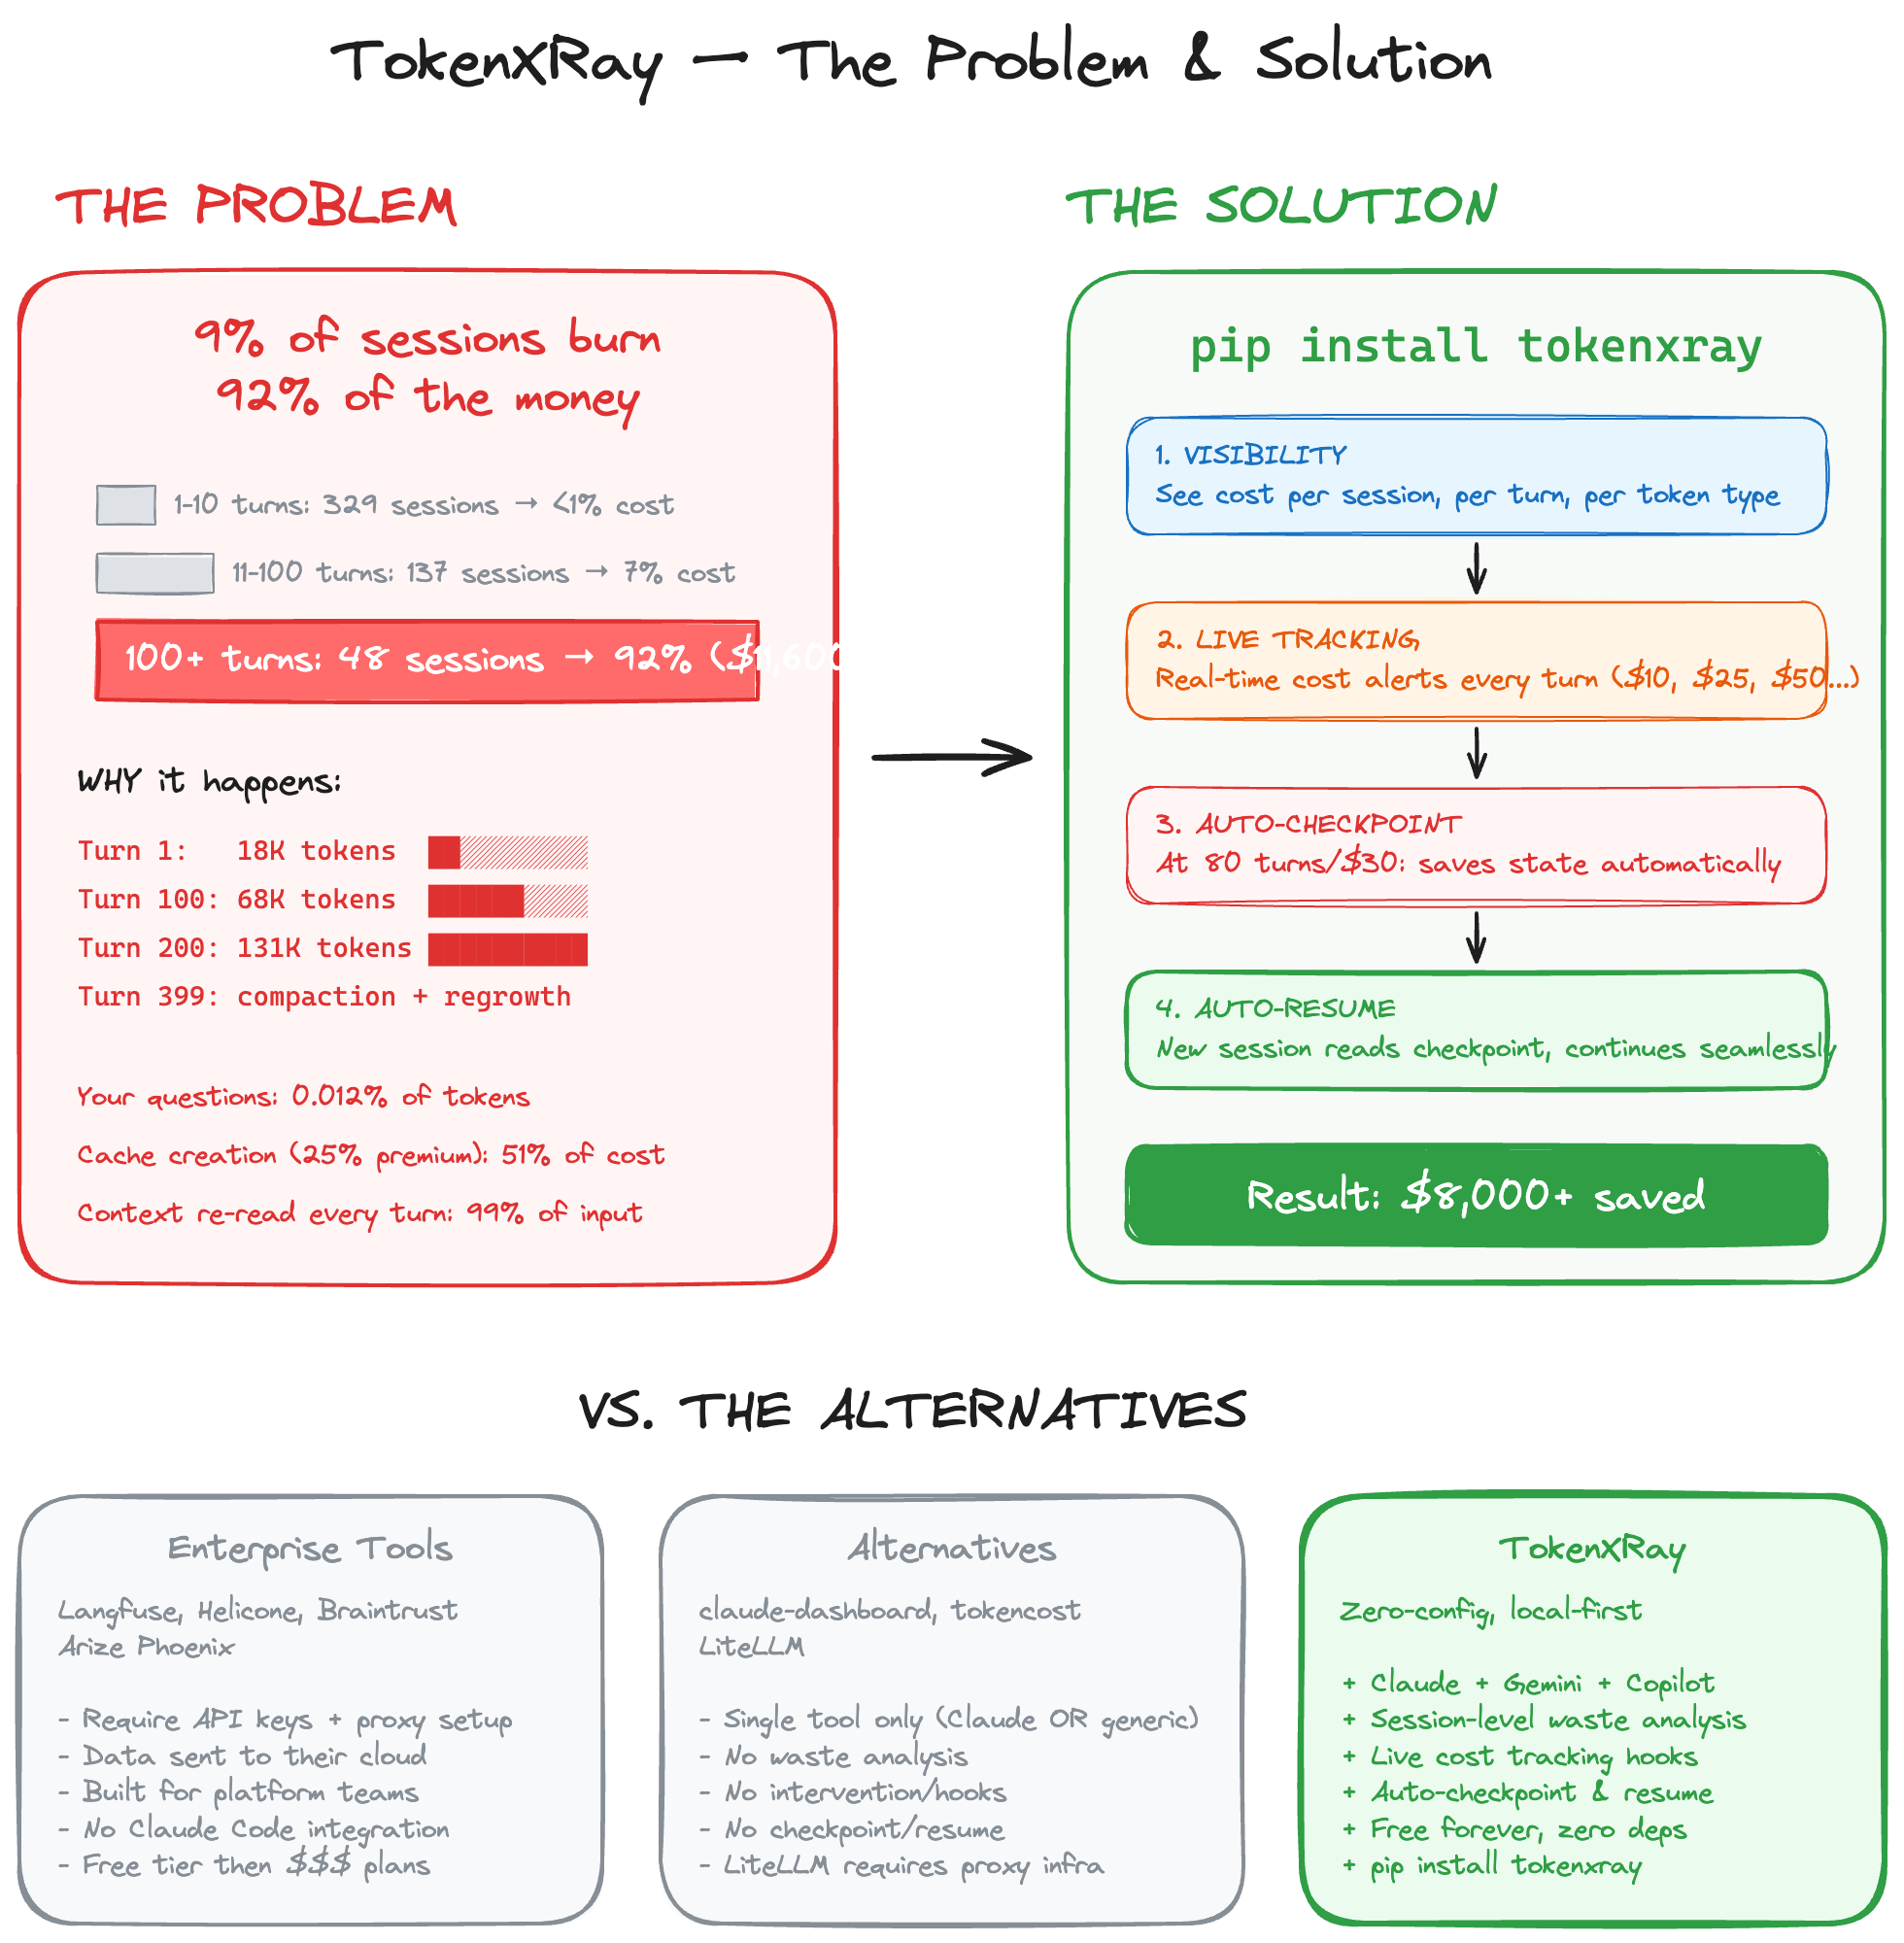
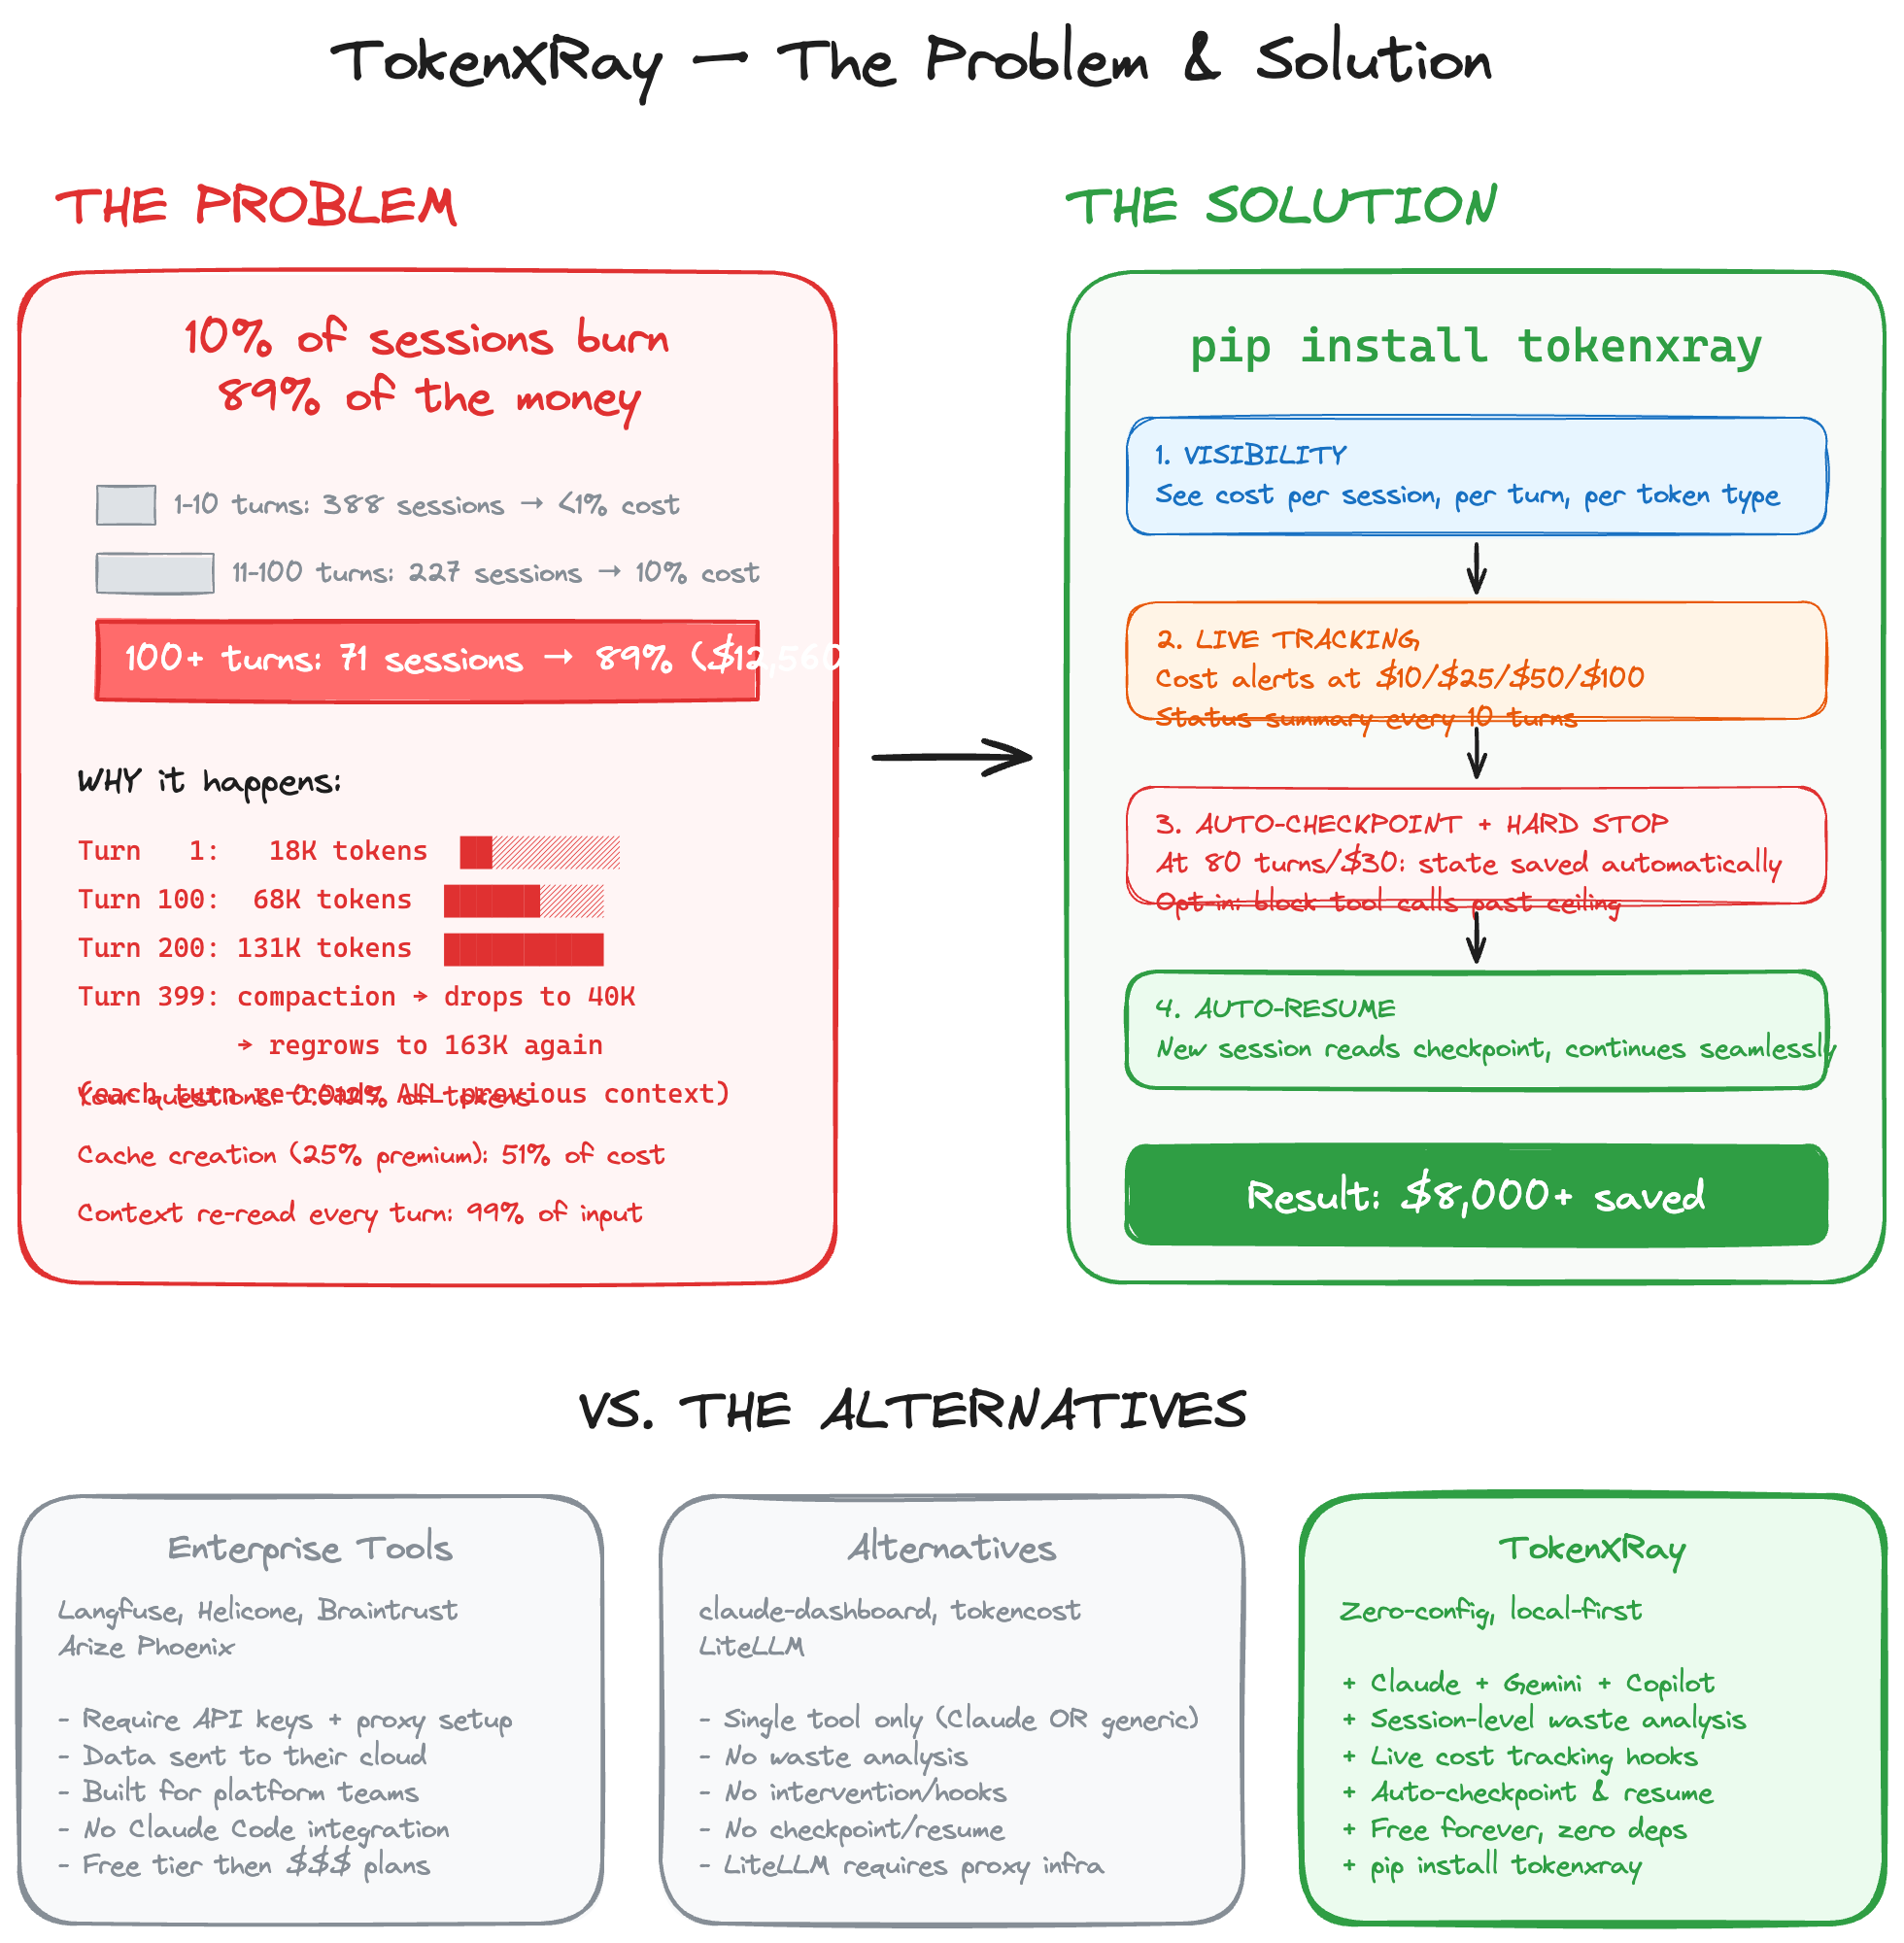
blog: refresh to 686 sessions, add hard-stop, fix GitHub URLs
- Blog post: update segment table (71/388/227 sessions, 10%/89%), add
  hard-stop to hooks section, replace vague 'noticeably' with math,
  update CLI example block, fix GitHub URL to Crack525/tokenxray
- Excalidraw: stat headline 10%/89%, corrected session counts, step 2
  alert text precise, step 3 shows hard-stop, context-growth sawtooth
- PNG: re-exported to match updated diagram
- pyproject.toml: fix niajulhasan -> Crack525 in all 3 URL fields
- dashboard.py: fix niajulhasan -> Crack525 in footer link

diff --git a/src/tokenxray/commands/dashboard.py b/src/tokenxray/commands/dashboard.py
@@ -496,7 +496,7 @@ def _render_html(data):
 
 <div class="footer">
   TokenXRay &mdash; See where your AI coding tokens actually go.
-  &bull; <a href="https://github.com/niajulhasan/tokenxray" style="color: var(--accent);">GitHub</a>
+  &bull; <a href="https://github.com/Crack525/tokenxray" style="color: var(--accent);">GitHub</a>
   &bull; pip install tokenxray
 </div>
 

diff --git a/blog/i-spent-104-dollars-in-one-ai-session.md b/blog/i-spent-104-dollars-in-one-ai-session.md
@@ -1,4 +1,4 @@
-# I Spent $104 in a Single AI Coding Session. Then I Audited All 514 of Mine.
+# I Spent $104 in a Single AI Coding Session. Then I Audited All 686 of Mine.
 
 *April 2026*
 
@@ -12,22 +12,22 @@ I wrote a script to analyze the damage. The pattern was worse than I expected.
 
 ## The Audit
 
-I analyzed **514 Claude Code sessions** — every session I'd run, totaling **$12,600+ in API costs**. I broke them down by length:
+I analyzed **686 Claude Code sessions** — every session I'd run, totaling **$14,000+ in API costs**. I broke them down by length:
 
 ```
 Session Segments:
-  1-10 turns:   329 sessions (64%)  →  avg $0.19   →  <1% of total spend
-  11-30 turns:   76 sessions (15%)  →  avg $4.01   →   2% of total spend
-  31-100 turns:  61 sessions (12%)  →  avg $11.05  →   5% of total spend
-  100+ turns:    48 sessions  (9%)  →  avg $241    →  92% of total spend
+  1-10 turns:   388 sessions (57%)  →  avg $0.19   →  <1% of total spend
+  11-30 turns:  110 sessions (16%)  →  avg $3.18   →   2% of total spend
+  31-100 turns: 117 sessions (17%)  →  avg $9.08   →   8% of total spend
+  100+ turns:    71 sessions (10%)  →  avg $177    →  89% of total spend
                                                        ^^^
 ```
 
 Read that last line again.
 
-**9% of my sessions burned 92% of my money.**
+**10% of my sessions burned 89% of my money.**
 
-The 48 marathon sessions — the ones where I was "in the zone," deep in a refactor or a tricky bug — those cost me $11,600. The other 466 sessions? $1,000 combined.
+The 71 marathon sessions — the ones where I was "in the zone," deep in a refactor or a tricky bug — those cost me $12,560. The other 615 sessions? $1,484 combined.
 
 ## What's Actually Eating Your Tokens
 
@@ -53,7 +53,7 @@ It costs **100x or more.**
 
 Context accumulates quadratically. Every new turn processes all previous context. Turn 1 reads 18K tokens. Turn 100 reads 68K. Turn 200 reads 131K. Turn 399 reads your entire conversation history — compressed, expanded, re-cached — every single time.
 
-My most expensive session: **399 turns, 2.4 hours, $104.** The context hit 131K tokens before auto-compaction kicked in.
+That session: **399 turns, 2.4 hours, $104.** The context hit 131K tokens before auto-compaction kicked in. (When I later audited all 686 sessions, I found three sessions over $1,000 — the worst was $1,477 across 4,389 turns. The pattern compounds the longer you let it run.)
 
 ## So I Built TokenXRay
 
@@ -70,13 +70,13 @@ pip install tokenxray
 ```
 TokenXRay - Session Overview
 ----------------------------------------------------------------------
-  514 sessions    43,000+ total turns    $12,600+ total cost
+  686 sessions    53,000+ total turns    $14,000+ total cost
 
   Segment Breakdown:
-    1-10 turns:  329 sessions  avg  $0.19   total    $62   ░░░░░░░░░░  0%
-         11-30:   76 sessions  avg  $4.01   total   $305   ░░░░░░░░░░  2%
-        31-100:   61 sessions  avg $11.05   total   $674   █░░░░░░░░░  5%
-          100+:   48 sessions  avg   $241   total $11,600  ████████░░ 92%
+    1-10 turns:  388 sessions  avg  $0.19   total    $72   ░░░░░░░░░░  1%
+         11-30:  110 sessions  avg  $3.18   total   $349   ░░░░░░░░░░  2%
+        31-100:  117 sessions  avg  $9.08   total  $1,063  █░░░░░░░░░  8%
+          100+:   71 sessions  avg   $177   total $12,560  █████████░ 89%
 ```
 
 Drill into any session and it breaks down the cost by cache read, cache create, and output — then shows the waste ratio (my $104 session: 2.9K tokens of actual questions, 24.4M tokens of re-sent context). It flags marathon sessions and high cache creation costs with specific actions.
@@ -85,7 +85,7 @@ Drill into any session and it breaks down the cost by cache read, cache create, 
 
 After a one-time `tokenxray --install-hook --confirm`, two Claude Code hooks run automatically in every session:
 
-- **Cost hook** — tracks spending silently in the background. Shows status every 10 turns, alerts at cost thresholds. At 80 turns or $30, auto-saves your session state to `.claude/checkpoint.md` — insurance in case you decide to split, or Claude crashes, or context compresses badly.
+- **Cost hook** — tracks spending silently in the background. Shows status every 10 turns, alerts at cost thresholds. At 80 turns or $30, auto-saves your session state to `.claude/checkpoint.md`. If you want the session blocked rather than just warned, enable hard-stop mode in `~/.tokenxray/config.json` — it returns exit code 2 past a configurable ceiling, so Claude is forced to wrap up before any next action.
 - **Resume hook** — when you start a fresh session, detects the checkpoint and restores context automatically. Fires once, then gets out of the way.
 
 You never run `tokenxray` during a session. The hooks handle it.
@@ -122,7 +122,7 @@ The fix isn't complicated. It's session discipline:
 
 TokenXRay automates #1 completely. It shows you #2 and #3 in the diagnosis.
 
-After two weeks of splitting sessions at 80 turns and being conscious of model choice, my average session cost dropped noticeably. Applied retroactively to my full 514-session history, these patterns would have saved me over **$8,000**.
+A 200-turn session doesn't cost 2× a 100-turn session — it costs roughly 4× more, because context compounds on every turn. Applied retroactively to my full 686-session history, these patterns would have saved me over **$8,000**.
 
 ## Try It
 
@@ -141,4 +141,4 @@ tokenxray --install-hook --confirm
 
 **Your data stays local.** Zero dependencies. Python 3.9+. Works with Claude Code, Gemini CLI, and GitHub Copilot.
 
-[GitHub](https://github.com/niajulhasan/tokenxray) | [PyPI](https://pypi.org/project/tokenxray/)
+[GitHub](https://github.com/Crack525/tokenxray) | [PyPI](https://pypi.org/project/tokenxray/)